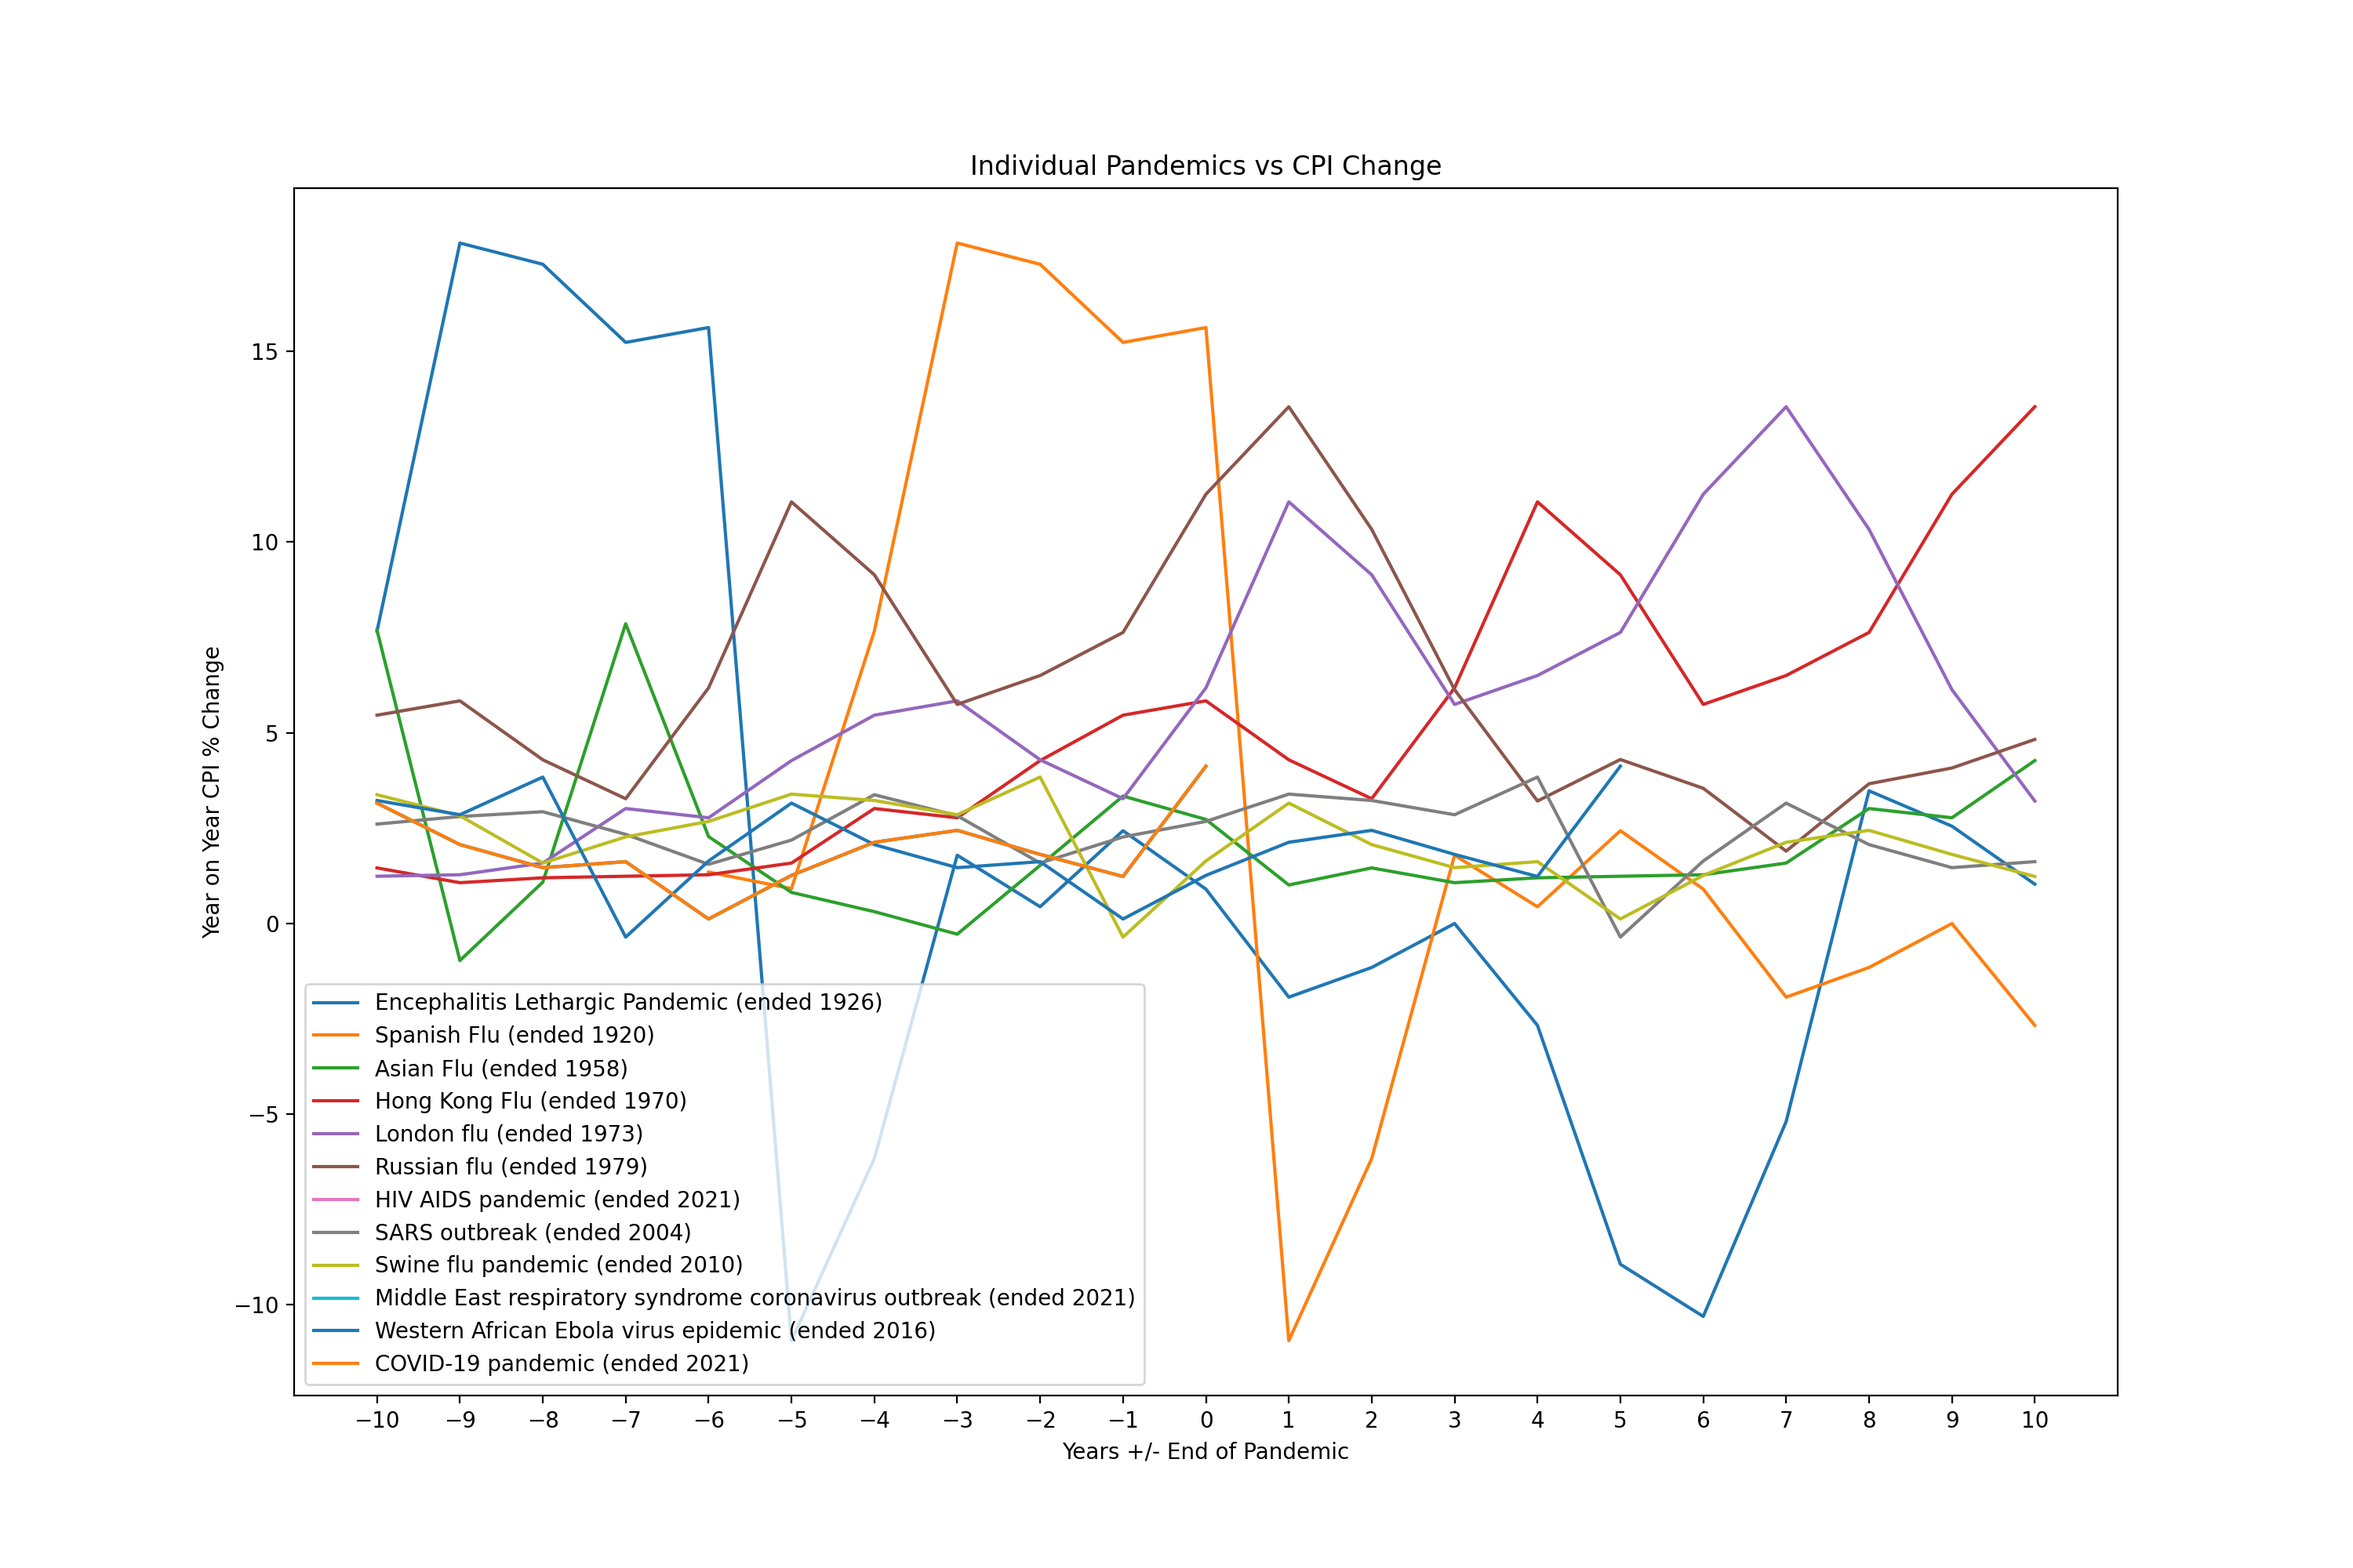
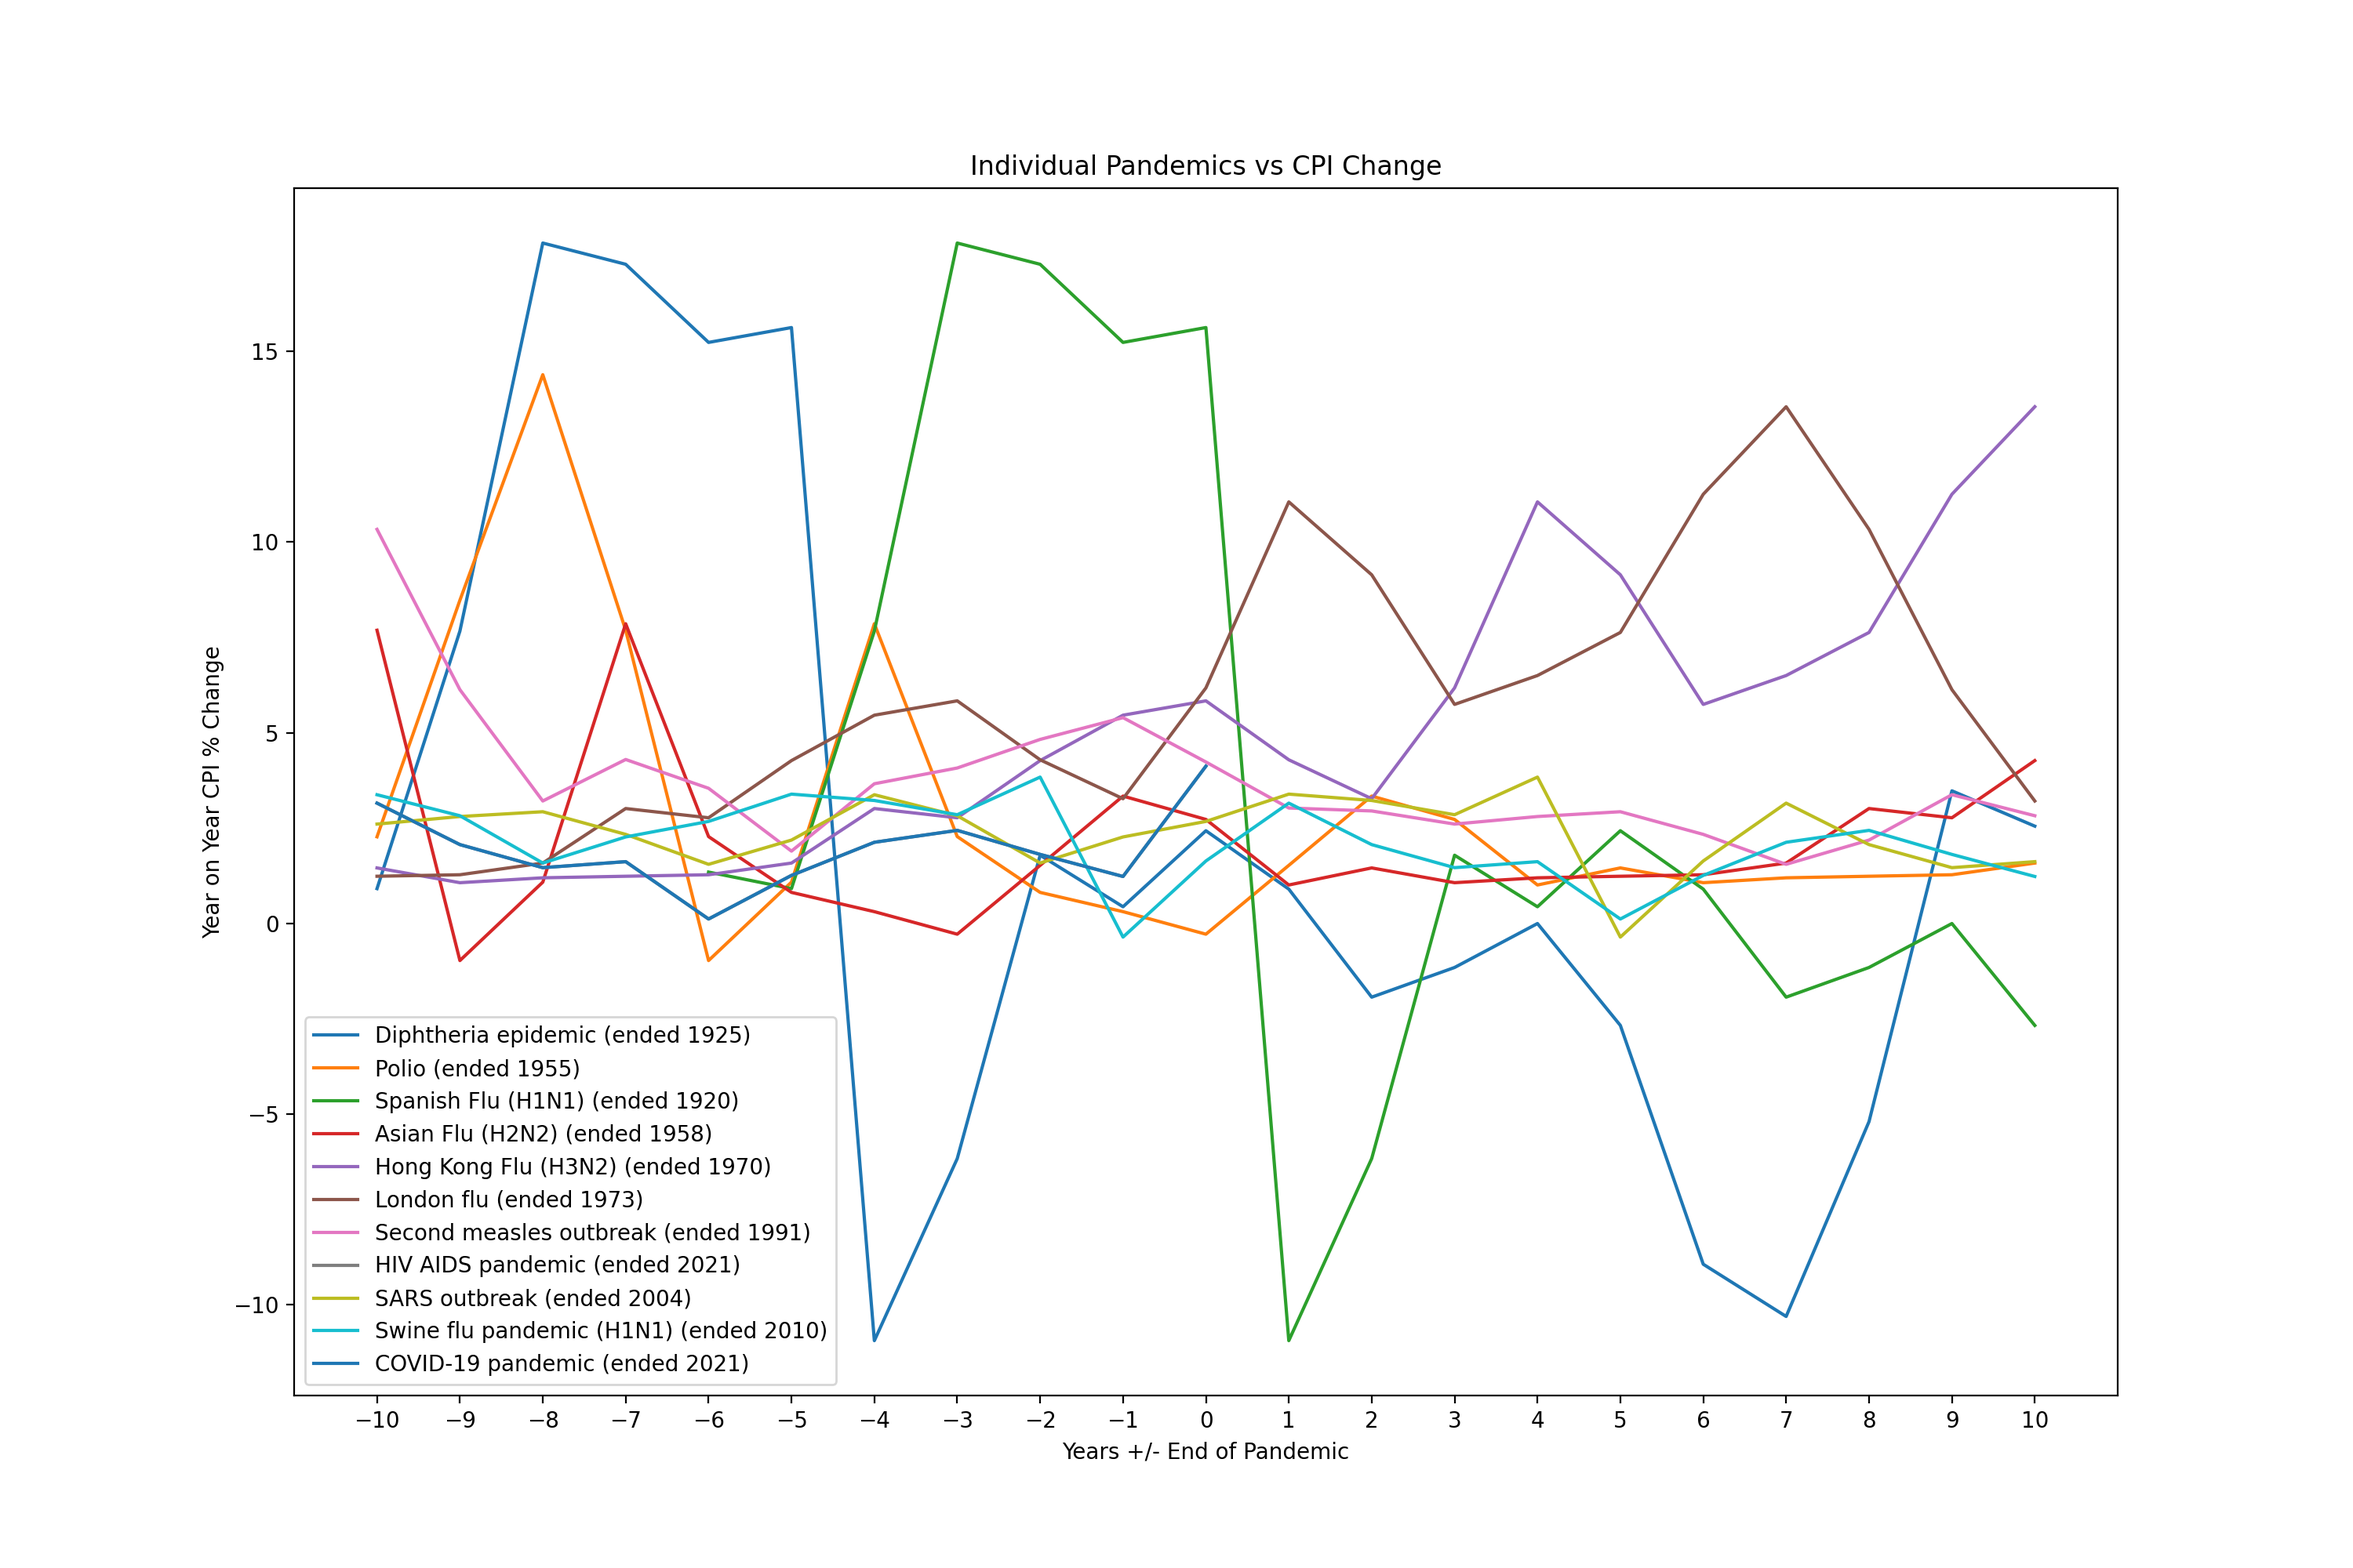
modify the events based on professor's suggestion to only include the events greatly impacted US, and adjust the doctests affected accordingly.

diff --git a/final_project.py b/final_project.py
@@ -100,23 +100,33 @@ def read_event_facts(filename: str, types: Union[str, list] = None, ranges: Unio
     >>> read_event_facts('data/event_facts.csv', ranges='South America')
     Traceback (most recent call last):
     ...
-    ValueError: Invalid range(s) given: South America. Valid ranges(s): Worldwide, Include United States
-    >>> df = read_event_facts('data/event_facts.csv', ranges='Worldwide', types=['War'])
+    ValueError: Invalid range(s) given: South America. Valid ranges(s): Affect United States
+    >>> df = read_event_facts('data/event_facts.csv', ranges='Affect United States', types=['War'])
     >>> df
-          Event_Name Type      Range  Start_Year  End_Year Fatalities  Duration
-    12   World War I  War  Worldwide        1914      1918    10-100m         4
-    15  World War II  War  Worldwide        1939      1945      >100m         6
+                      Event_Name Type  ... Fatalities  Duration
+    11               World War I  War  ...    10-100m         4
+    12                Korean War  War  ...      1-10m         3
+    13               Vietnam War  War  ...      1-10m        10
+    14              World War II  War  ...      >100m         6
+    15                  Gulf War  War  ...  10,000-1m         1
+    16  Civil war in Afghanistan  War  ...  10,000-1m         5
+    17             War on Terror  War  ...  10,000-1m        20
+    18                  Iraq War  War  ...  10,000-1m         8
+    19            War in Somalia  War  ...      1-10m        15
+    <BLANKLINE>
+    [9 rows x 7 columns]
     >>> df = read_event_facts('data/event_facts.csv', min_start_year=1900, max_end_year=1930)
     >>> df[['Event_Name', 'Start_Year', 'End_Year']]
-                             Event_Name  Start_Year  End_Year
-    0   Encephalitis Lethargic Pandemic        1915      1926
-    1                       Spanish Flu        1918      1920
-    12                      World War I        1914      1918
+                 Event_Name  Start_Year  End_Year
+    0   Diphtheria epidemic        1921      1925
+    2    Spanish Flu (H1N1)        1918      1920
+    11          World War I        1914      1918
     >>> df = read_event_facts('data/event_facts.csv', max_start_year=1990, min_end_year=1991)
     >>> df[['Event_Name', 'Start_Year', 'End_Year']]
-               Event_Name  Start_Year  End_Year
-    6   HIV AIDS pandemic        1981      2021
-    16           Gulf War        1990      1991
+                     Event_Name  Start_Year  End_Year
+    6   Second measles outbreak        1981      1991
+    7         HIV AIDS pandemic        1981      2021
+    15                 Gulf War        1990      1991
     """
 
     # Raise an error if one of the optional year parameters given is invalid
@@ -1000,13 +1010,14 @@ def analyze_cpi(us_cpi_file: str, events_file: str, year_boundaries: int,
     >>> events_file = 'data/event_facts.csv'
     >>> pans_df, wars_df = analyze_cpi(cpi_file, events_file, 10, 'end_year')
     >>> pans_df.head()                                              # doctest: +ELLIPSIS +NORMALIZE_WHITESPACE
-         Encephalitis Lethargic Pandemic (ended 1926)  ...  COVID-19 pandemic (ended 2021)
-    -10                                      7.666934  ...                        3.156841
-    -9                                      17.840731  ...                        2.069342
-    -8                                      17.283953  ...                        1.464832
-    -7                                      15.235460  ...                        1.622224
-    -6                                      15.624989  ...                        0.118625
-    [5 rows x 12 columns]
+         Diphtheria epidemic (ended 1925)  ...  COVID-19 pandemic (ended 2021)
+    -10                          0.915146  ...                        3.156841
+    -9                           7.666934  ...                        2.069342
+    -8                          17.840731  ...                        1.464832
+    -7                          17.283953  ...                        1.622224
+    -6                          15.235460  ...                        0.118625
+    <BLANKLINE>
+    [5 rows x 11 columns]
     >>> wars_df.tail()                                              # doctest: +ELLIPSIS +NORMALIZE_WHITESPACE
         World War I (ended 1918)  ...  War in Somalia (ended 2021)
     6                   0.439882  ...                          NaN
@@ -1054,27 +1065,27 @@ def analyze_index(sp500_file: str, dowjones_file: str, events_file: str):
     >>> analyze_index(str1, str2, str3)
     1. If we use the year before the event end year as zero point, and select the inflation adjusted SP500 and Dow Jones historical data 10 years before and after the zero point year, plots would be
     The evolution of real SP500 and Dow Jones 10 years before and after all the Pandemics:
-    ['Asian Flu', 'Hong Kong Flu', 'London flu', 'Russian flu', 'SARS outbreak', 'Swine flu pandemic']
-    ['Asian Flu', 'Hong Kong Flu', 'London flu', 'Russian flu', 'SARS outbreak', 'Swine flu pandemic']
+    ['Polio', 'Asian Flu (H2N2)', 'Hong Kong Flu (H3N2)', 'London flu', 'Second measles outbreak', 'SARS outbreak', 'Swine flu pandemic (H1N1)']
+    ['Polio', 'Asian Flu (H2N2)', 'Hong Kong Flu (H3N2)', 'London flu', 'Second measles outbreak', 'SARS outbreak', 'Swine flu pandemic (H1N1)']
     The evolution of real SP500 and Dow Jones 10 years before and after all the Wars:
     ['Korean War', 'Vietnam War', 'World War II', 'Gulf War', 'Civil war in Afghanistan', 'Iraq War']
     ['Korean War', 'Vietnam War', 'World War II', 'Gulf War', 'Civil war in Afghanistan', 'Iraq War']
     The evolution of real SP500 and Dow Jones 10 years before and after Pandemics with over 1m fatalities:
-    ['Asian Flu', 'Hong Kong Flu']
-    ['Asian Flu', 'Hong Kong Flu']
+    ['Asian Flu (H2N2)', 'Hong Kong Flu (H3N2)']
+    ['Asian Flu (H2N2)', 'Hong Kong Flu (H3N2)']
     The evolution of real SP500 and Dow Jones 10 years before and after Wars with over 1m fatalities:
     ['Korean War', 'Vietnam War', 'World War II']
     ['Korean War', 'Vietnam War', 'World War II']
     3. If we use the event start year as zero point, and select the real SP500 and Dow Jones historical data 5 years before and after the zero point year, plots would be
     The evolution of real SP500 and Dow Jones 5 years before and after all the Pandemics:
-    ['Asian Flu', 'Hong Kong Flu', 'London flu', 'Russian flu', 'HIV AIDS pandemic', 'SARS outbreak', 'Swine flu pandemic', 'Middle East respiratory syndrome coronavirus outbreak', 'Western African Ebola virus epidemic']
-    ['Asian Flu', 'Hong Kong Flu', 'London flu', 'Russian flu', 'HIV AIDS pandemic', 'SARS outbreak', 'Swine flu pandemic', 'Middle East respiratory syndrome coronavirus outbreak', 'Western African Ebola virus epidemic']
+    ['Asian Flu (H2N2)', 'Hong Kong Flu (H3N2)', 'London flu', 'Second measles outbreak', 'HIV AIDS pandemic', 'SARS outbreak', 'Swine flu pandemic (H1N1)']
+    ['Asian Flu (H2N2)', 'Hong Kong Flu (H3N2)', 'London flu', 'Second measles outbreak', 'HIV AIDS pandemic', 'SARS outbreak', 'Swine flu pandemic (H1N1)']
     The evolution of real SP500 and Dow Jones 5 years before and after all the Wars:
     ['Korean War', 'Vietnam War', 'World War II', 'Gulf War', 'Civil war in Afghanistan', 'War on Terror', 'Iraq War', 'War in Somalia']
     ['Korean War', 'Vietnam War', 'World War II', 'Gulf War', 'Civil war in Afghanistan', 'War on Terror', 'Iraq War', 'War in Somalia']
     The evolution of real SP500 and Dow Jones 5 years before and after Pandemics with over 1m fatalities:
-    ['Asian Flu', 'Hong Kong Flu', 'HIV AIDS pandemic']
-    ['Asian Flu', 'Hong Kong Flu', 'HIV AIDS pandemic']
+    ['Asian Flu (H2N2)', 'Hong Kong Flu (H3N2)', 'HIV AIDS pandemic']
+    ['Asian Flu (H2N2)', 'Hong Kong Flu (H3N2)', 'HIV AIDS pandemic']
     The evolution of real SP500 and Dow Jones 5 years before and after Wars with over 1m fatalities:
     ['Korean War', 'Vietnam War', 'World War II', 'War in Somalia']
     ['Korean War', 'Vietnam War', 'World War II', 'War in Somalia']
